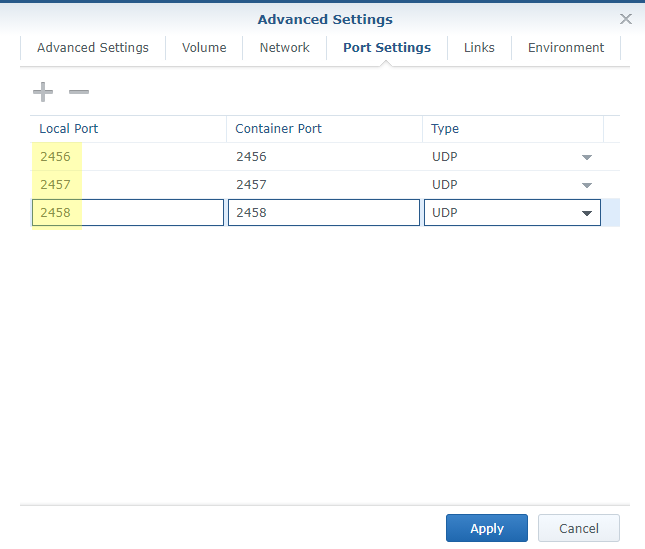
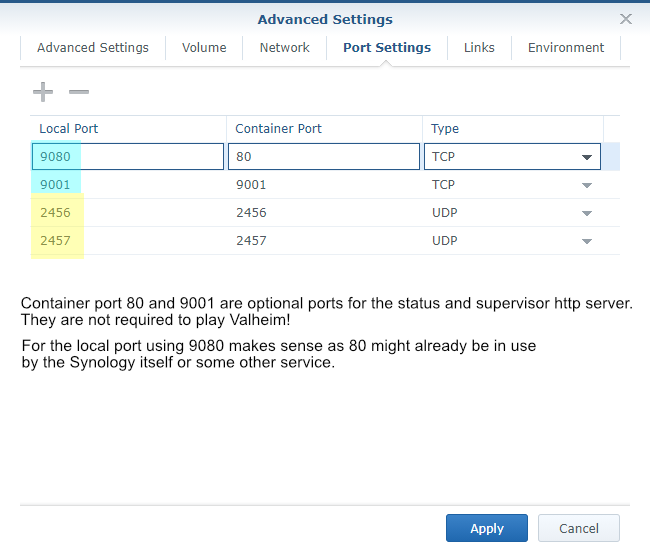
Update README with Synology Error information (Helps with #211 and #208)

diff --git a/README.md b/README.md
@@ -487,3 +487,17 @@ The process of updating the image clears all data stored inside the container. S
 ![Update Step 4](https://raw.githubusercontent.com/lloesche/valheim-server-docker/main/misc/update4.png "Update Step 4")
 ![Update Step 5](https://raw.githubusercontent.com/lloesche/valheim-server-docker/main/misc/update5.png "Update Step 5")
 ![Update Step 6](https://raw.githubusercontent.com/lloesche/valheim-server-docker/main/misc/update6.png "Update Step 6")
+
+### Error after download of new container image
+If you are getting the following error after an Update:
+![Error Step 1](https://raw.githubusercontent.com/lloesche/valheim-server-docker/main/misc/synology_upgrade_error1.png "Error Step 1")
+
+![Error Step 2](https://raw.githubusercontent.com/lloesche/valheim-server-docker/main/misc/synology_upgrade_error2.png "Error Step 2")
+```
+"Failure: OCI runtime create failed: container_linux.go:367: [...]"
+```
+
+You will need to remove the container completely and perform the [First install](#first-install) steps again.
+![Error Step 3](https://raw.githubusercontent.com/lloesche/valheim-server-docker/main/misc/synology_upgrade_error3.png "Error Step 3")
+
+The error is caused by Synology using the old image's `ENTRYPOINT` with the newly downloaded image. By removing the container and recreating it we're forcing Synology to use the new images `ENTRYPOINT`.
